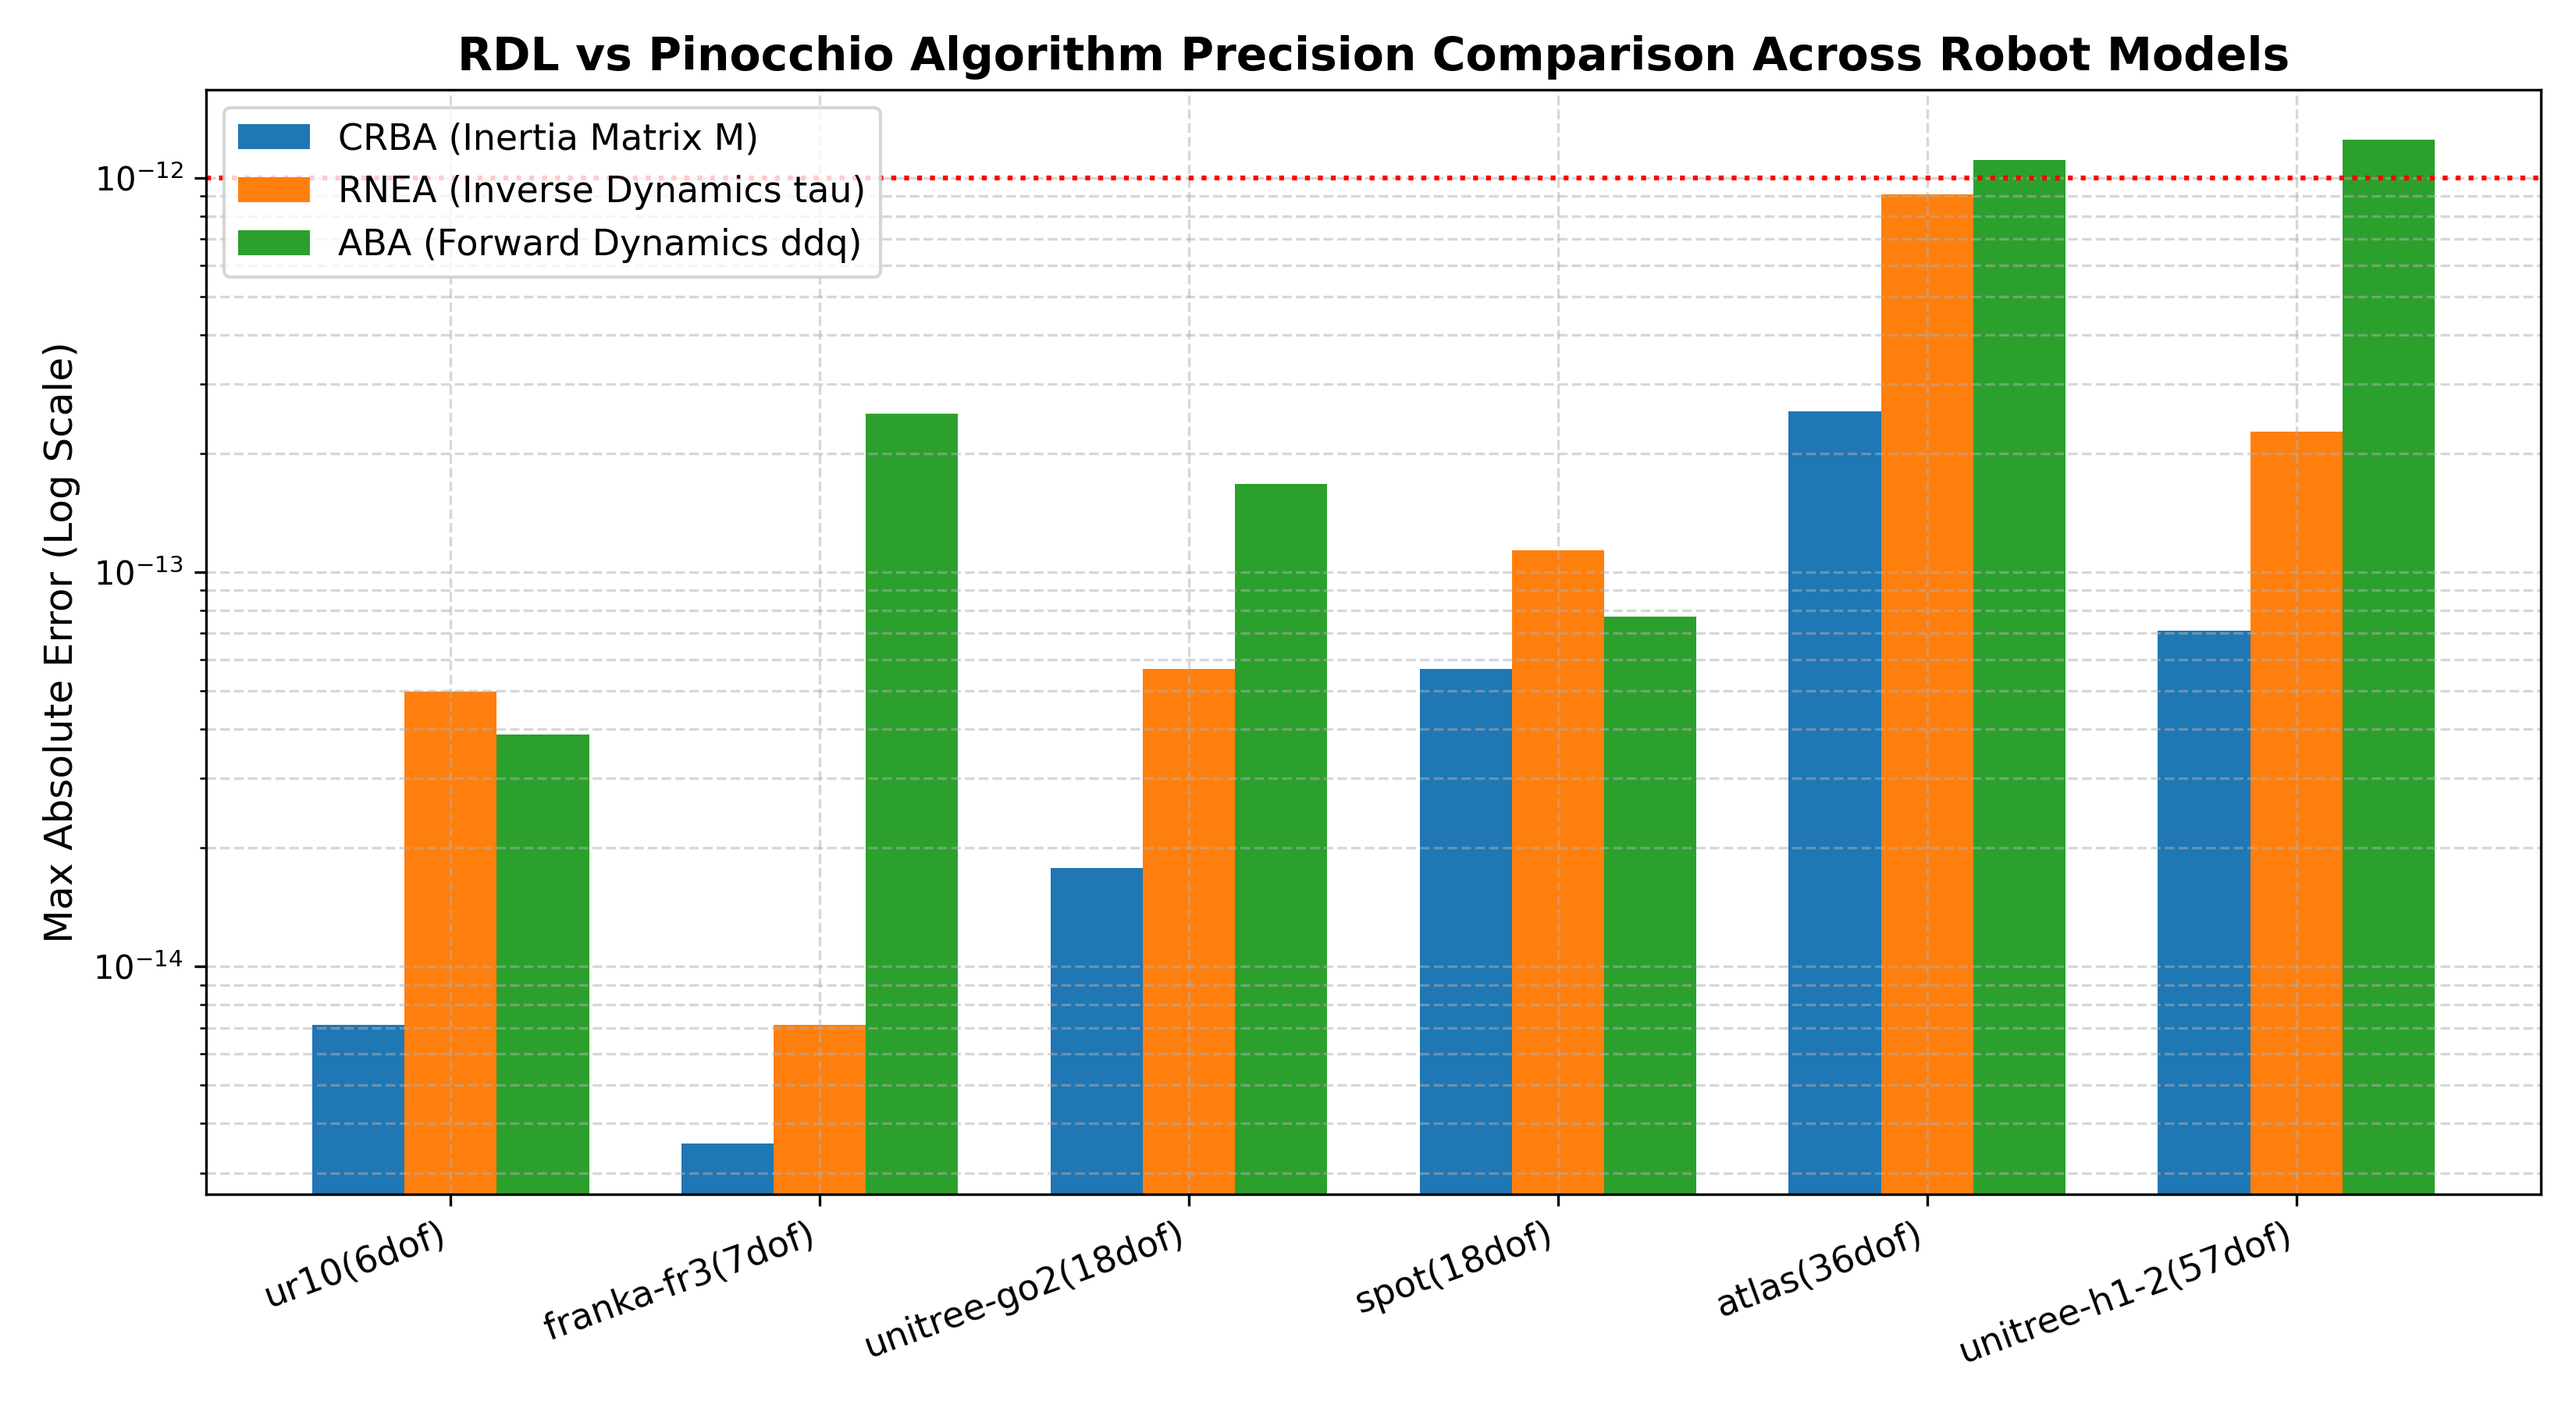
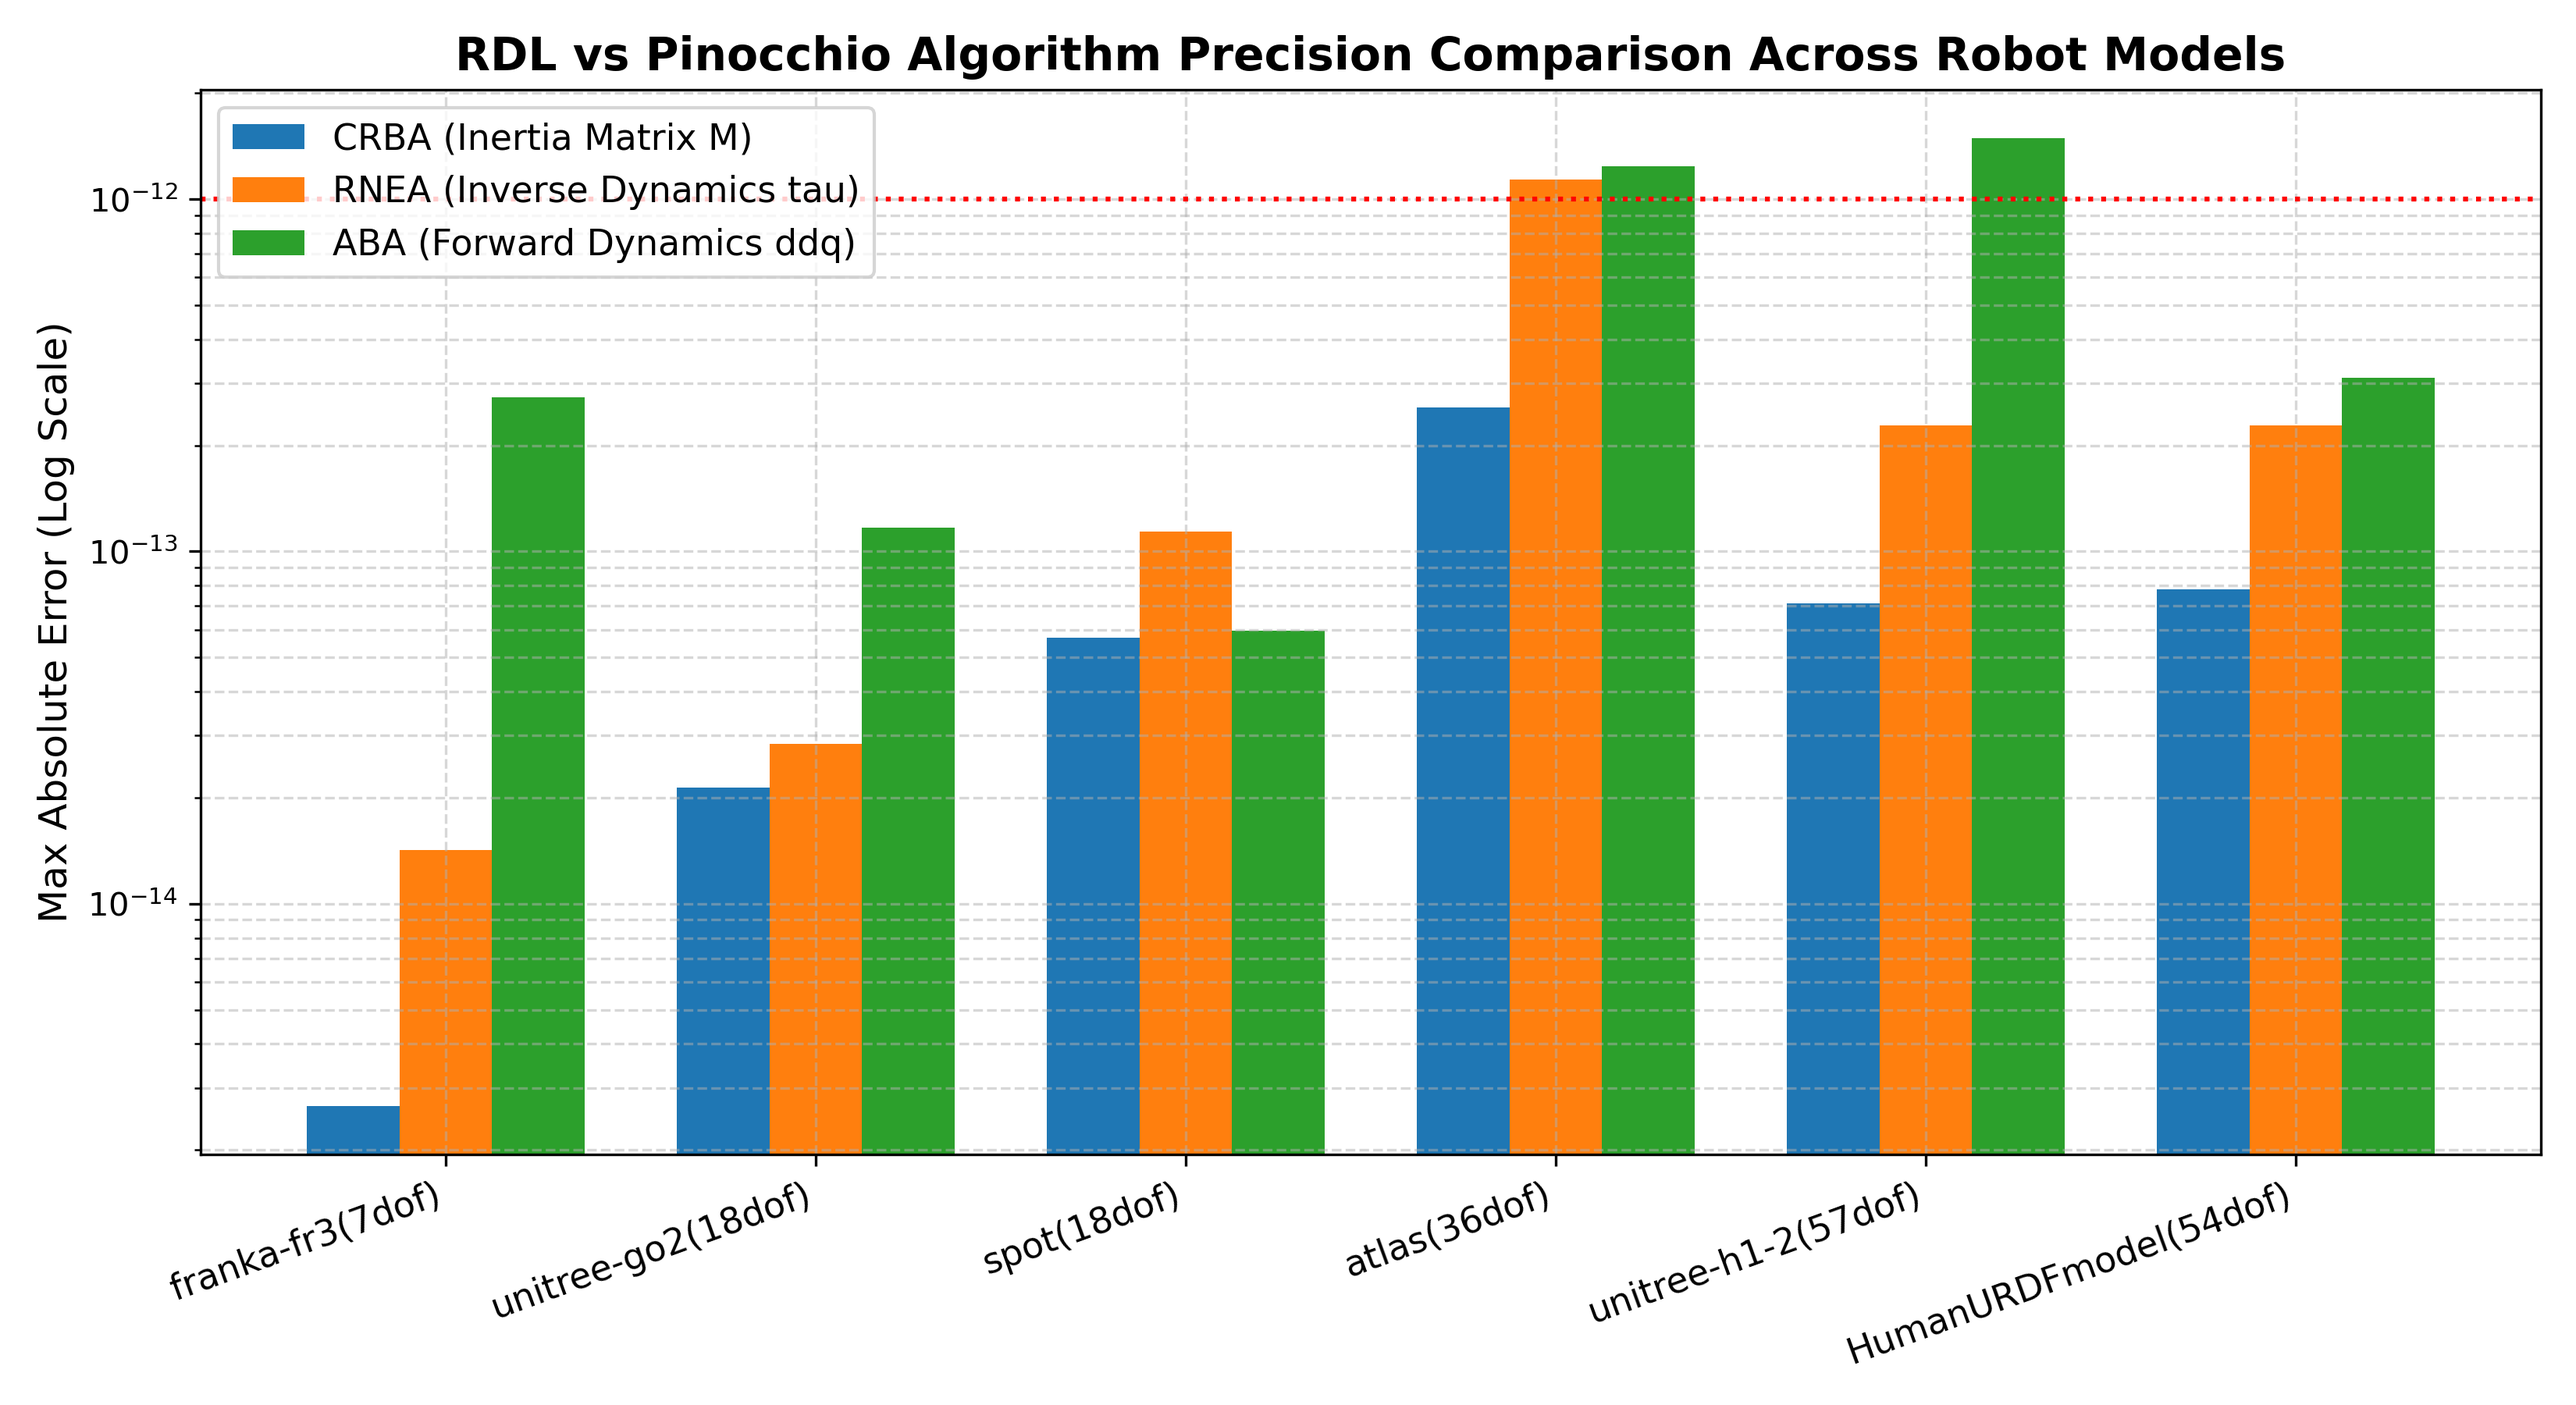
minor changes

diff --git a/utils/src/urdf_parser_impl.cpp b/utils/src/urdf_parser_impl.cpp
@@ -223,6 +223,7 @@ static void parseTopologyAndLumpFixedJointsDFS(
 
     // 将当前连杆标记为已访问
     visited_links.insert(current_link->name);
+    std::cout << "current name: " << current_link->name << std::endl;
 
     for (const auto& joint : current_link->child_joints) {
         auto child_link = std::const_pointer_cast<urdf::Link>(model->getLink(joint->child_link_name));
@@ -298,6 +299,8 @@ bool URDFParser::parse(
     std::vector<RobotNodeInfo>& nodes,
     bool is_floating_base)
 {
+    // 注意：对于 ms-human-700 这种已显式写出 6DOF 基座关节的 URDF，
+    // 调用时应当传入 is_floating_base = false，由文件中的 prismatic 和 continuous 关节直接表达基座。
     std::shared_ptr<urdf::ModelInterface> model = urdf::parseURDFFile(file_path);
     if (!model) {
         std::cerr << "[URDFParser] Error: Failed to parse URDF file: " << file_path << "\n";
@@ -318,10 +321,11 @@ bool URDFParser::parse(
     world_node.parent_id = -1;
     nodes.push_back(world_node);
 
-    // 初始化闭环检测集合
     std::unordered_set<std::string> visited_links;
 
     if (is_floating_base) {
+        // 如果确实需要对无基座关节的纯自由体模型套用隐式浮动基，才走这里
+        // 但对于包含 pelvis_tz/ty/tx 的 URDF，建议直接走下面的 else 分支
         RobotNodeInfo base_node;
         base_node.node_name = root_link->name;
         base_node.joint_name = root_link->name + "_floating_joint";
@@ -335,11 +339,10 @@ bool URDFParser::parse(
         base_node.accumulated_spatial_inertia = base_inertia;
         nodes.push_back(base_node);
 
-        // 传入 visited_links
         parseTopologyAndLumpFixedJointsDFS(root_link, 1, Eigen::Matrix4d::Identity(), Eigen::Matrix3d::Identity(), model, nodes, visited_links);
-
     } else {
-        // 传入 visited_links
+        // 标准正向树遍历：从 world 开始，依次经过 pelvis_tz, pelvis_ty, pelvis_tx,
+        // pelvis_tilt, pelvis_list, pelvis_rotation，完整保留所有中间节点！
         parseTopologyAndLumpFixedJointsDFS(root_link, 0, Eigen::Matrix4d::Identity(), Eigen::Matrix3d::Identity(), model, nodes, visited_links);
     }
 
